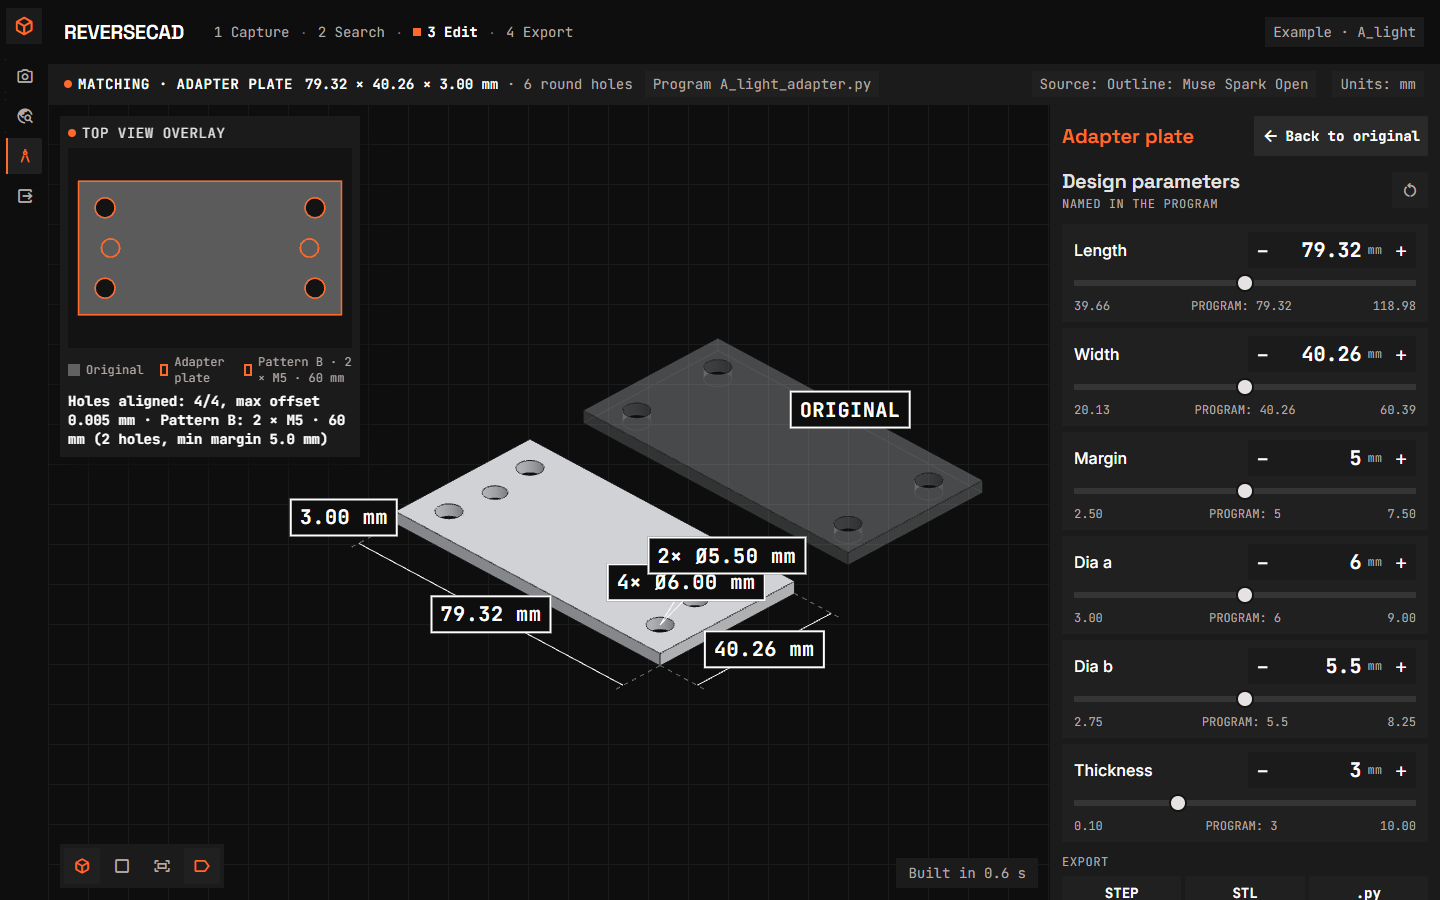
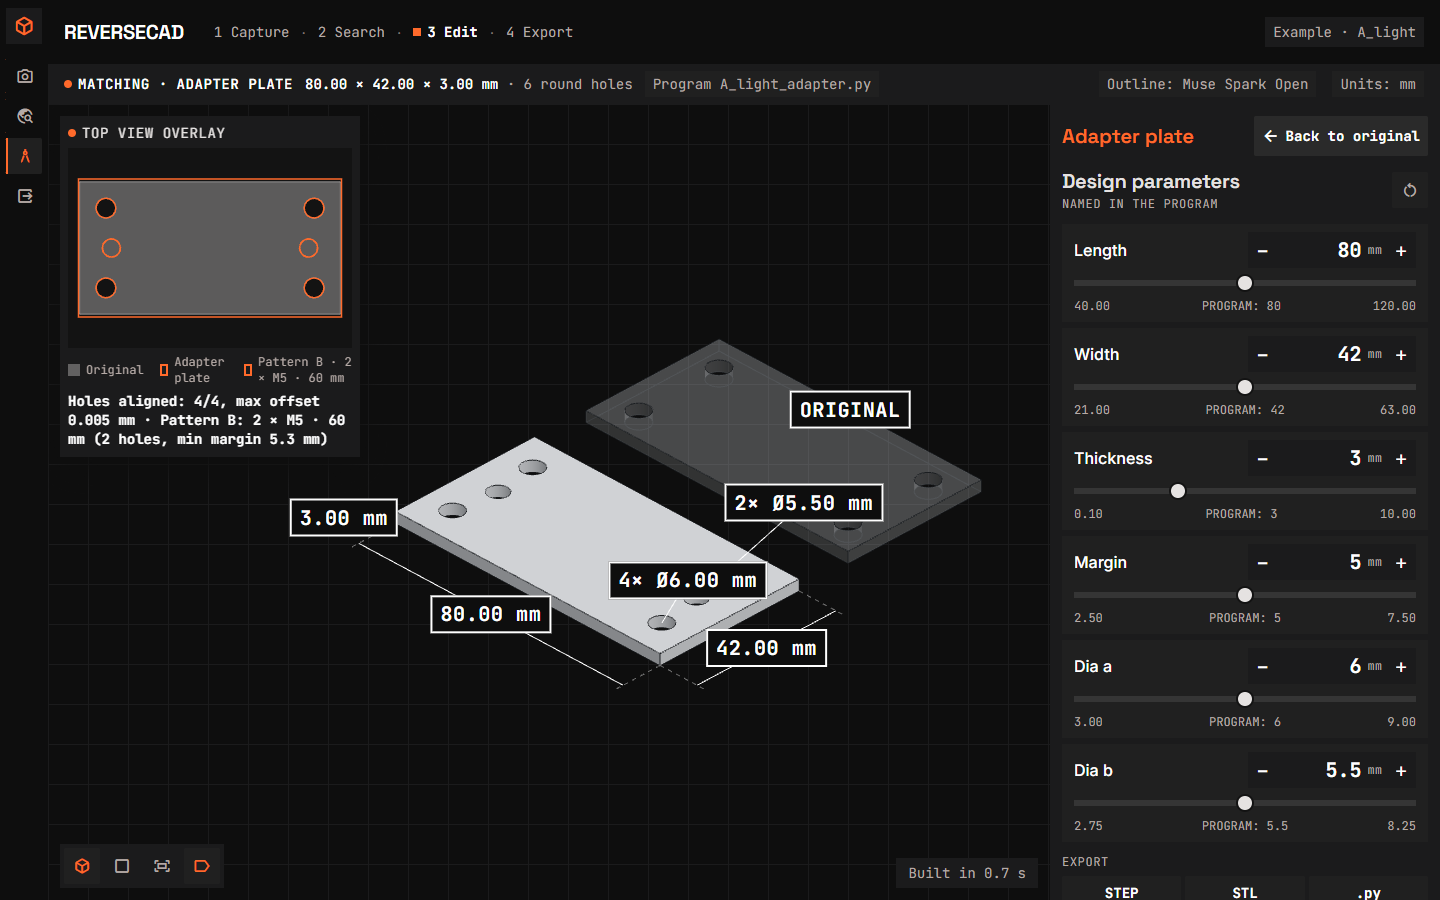
[muse-code] Demo video part C: fix 3D label overlap and nested header label

diff --git a/webapp/static/viewer.js b/webapp/static/viewer.js
@@ -120,19 +120,19 @@ export function createViewer(container, { shiftRight = 0 } = {}) {
     dimension(group, "width", `${(y1 - y0).toFixed(2)} mm`, [x1, y0, z0], [x1, y1, z0], [gap, 0, 0]);
     dimension(group, "thickness", `${(z1 - z0).toFixed(2)} mm`, [x0, y0, z0], [x0, y0, z1], [-gap * 0.7, -gap * 0.7, 0]);
 
-    // Holes: one label per diameter. Every label is pinned to the single hole nearest the viewer's
-    // side and stacked above it (up plus a step sideways), so labels cannot cover each other.
+    // Holes: one label per diameter, each pinned to that diameter's hole nearest the viewer's
+    // side and stacked with a two-gap step, so no two labels overlap in the iso view.
     const groups = new Map();
     for (const hole of features.holes) {
       const key = hole.diameter.toFixed(2);
       groups.set(key, [...(groups.get(key) || []), hole]);
     }
     if (!features.holes.length) return group;
-    const anchor = features.holes.reduce((a, b) => (b.center[0] - b.center[1] > a.center[0] - a.center[1] ? b : a));
-    const [hx, hy, hz] = anchor.center;
+    const nearest = (holes) => holes.reduce((a, b) => (b.center[0] - b.center[1] > a.center[0] - a.center[1] ? b : a));
     let lift = 0;
     for (const [diameter, holes] of groups) {
-      const end = [hx + gap * (0.5 + 1.1 * lift), hy + gap * 0.2, hz + gap * (1.1 + 1.1 * lift)];
+      const [hx, hy, hz] = nearest(holes).center;
+      const end = [hx + gap * (0.5 + 2.2 * lift), hy + gap * 0.2, hz + gap * (1.1 + 2.2 * lift)];
       group.add(line([[hx, hy, hz], end], dimensionMaterial));
       group.add(label("hole", `${holes.length > 1 ? `${holes.length}× ` : ""}Ø${Number(diameter).toFixed(2)} mm`, end));
       lift += 1;

diff --git a/webapp/static/app.js b/webapp/static/app.js
@@ -1306,7 +1306,8 @@ async function runAdapter(pattern) {
   const w = state.winner;
   setMatchingLayout(w);
   $("model-program").textContent = `Program ${w.program}`;
-  $("model-source").textContent = `Source: ${sourceLabel(w.source)}`;
+  // The adapter source is already a full label ("Outline: …"); other sources get the "Source:" prefix.
+  $("model-source").textContent = w.source.startsWith("Outline:") ? w.source : `Source: ${sourceLabel(w.source)}`;
   $("sliders").innerHTML = "";
   w.parameters.forEach((p) => $("sliders").appendChild(slider(p)));
   state.viewer.showSuggestion(null);

diff --git a/CLAUDE.md b/CLAUDE.md
@@ -341,3 +341,4 @@ Phone photos are often saved sideways and rotated via an EXIF tag. SAM gives coo
 - [x] **Completion scope rule: no unmeasured features** (`completion.py`, 2026-10-31; 8580ae9, 4eb90f0, a672474): the held-out BREAK3 restoration had added a mirrored notch (r 7.57) copied from the winner. `check_completion` now also compares the built profiles: a new hole needs a deterministic restored-hole pair, a new outline arc needs such a hole breaking through the edge, and a new corner must lie on a measured edge's line; the prompt carries the same scope rule. BREAK3 after-fix (not held-out), two runs, both valid, corner only, no notch: max/mean outline deviation 12.36/0.72 and 13.09/1.43 mm (model output varies; see reports/real_parts.md §9). BREAK1/2 stored completions still pass. Tests: 241 passed, 1 skipped.
 - [x] **Demo video, part A: model visibility and small fixes** (2026-10-31): adapter and matching errors use the orange warning style; mic hint "Say 'metric five' for M5"; pattern B overlay/summary/legend show the parsed summary (`interpret_pattern` labels the pattern with it); the in-overlay B text is removed (legend only, never overlaps); break rationale open by default at body size; every live step names its Meta model while running and when done ("Search finished · Muse Spark Open", "Source: candidate · Muse Spark Open", "Parsed by Muse Spark Open", voice in usage names); header stopwatch ticks during live stages and freezes on the measured total; stage durations saved in the run summary and replay shows "Recorded run". After screenshots in reports/ui/. Tests: 243 passed, 1 skipped.
 - [x] **Demo video, part B: photo-to-3D transitions** (2026-11-01): orange scan line sweeps the photo while SAM 3.1 runs (live) or for 900 ms (replay); the real mask contour draws itself progressively, then dimension lines fade in with final numbers (900 ms, `playMeasureIntro`, `polygon` progress); every candidate card shows the reference mask dimmed behind the real silhouette (`/api/runs/{name}/reference.png`), rejected/failed cards fade to 0.15 with their plain-word reason staying, the winner highlights; on model-ready the real part rises flat→full-thickness while the camera swings top→iso (1100 ms, `viewer.js` `riseFromTop`). All animations are non-blocking (zero added waiting), real-data-only, dark theme with the #FF6A2B accent, `prefers-reduced-motion` respected. Verified on mid-animation frames: partial orange contour + scanline, flat part from steep angle vs final iso with thickness, A_light_repair shows two faded REJECTED cards with reasons and the R1 winner. reports/ui/ after set refreshed (search only; measure/edit finals unchanged). Tests: 243 passed, 1 skipped; node --check clean.
+- [x] **Demo video, part C: 3D label fixes** (2026-11-01): adapter 3D hole labels no longer overlap — each diameter group pins to its own front-most hole with its own leader, stack step doubled (measured 117.9 × 11.3 px overlap → 0 overlapping pairs in A_light adapter/cover/spacer/edit views); adapter header shows the single label "Outline: Muse Spark Open" instead of "Source: Outline: …" (cover/spacer keep "Source: built part, no model"). reports/ui/A_light_adapter.png refreshed (now the cached 80 × 42 outline, min margin 5.3; one fresh 3-candidate Spark outline search on the first screenshot, 3/3 passed, ~$0.033 at the unverified price, later runs cached). Tests: 243 passed, 1 skipped; node --check clean.
